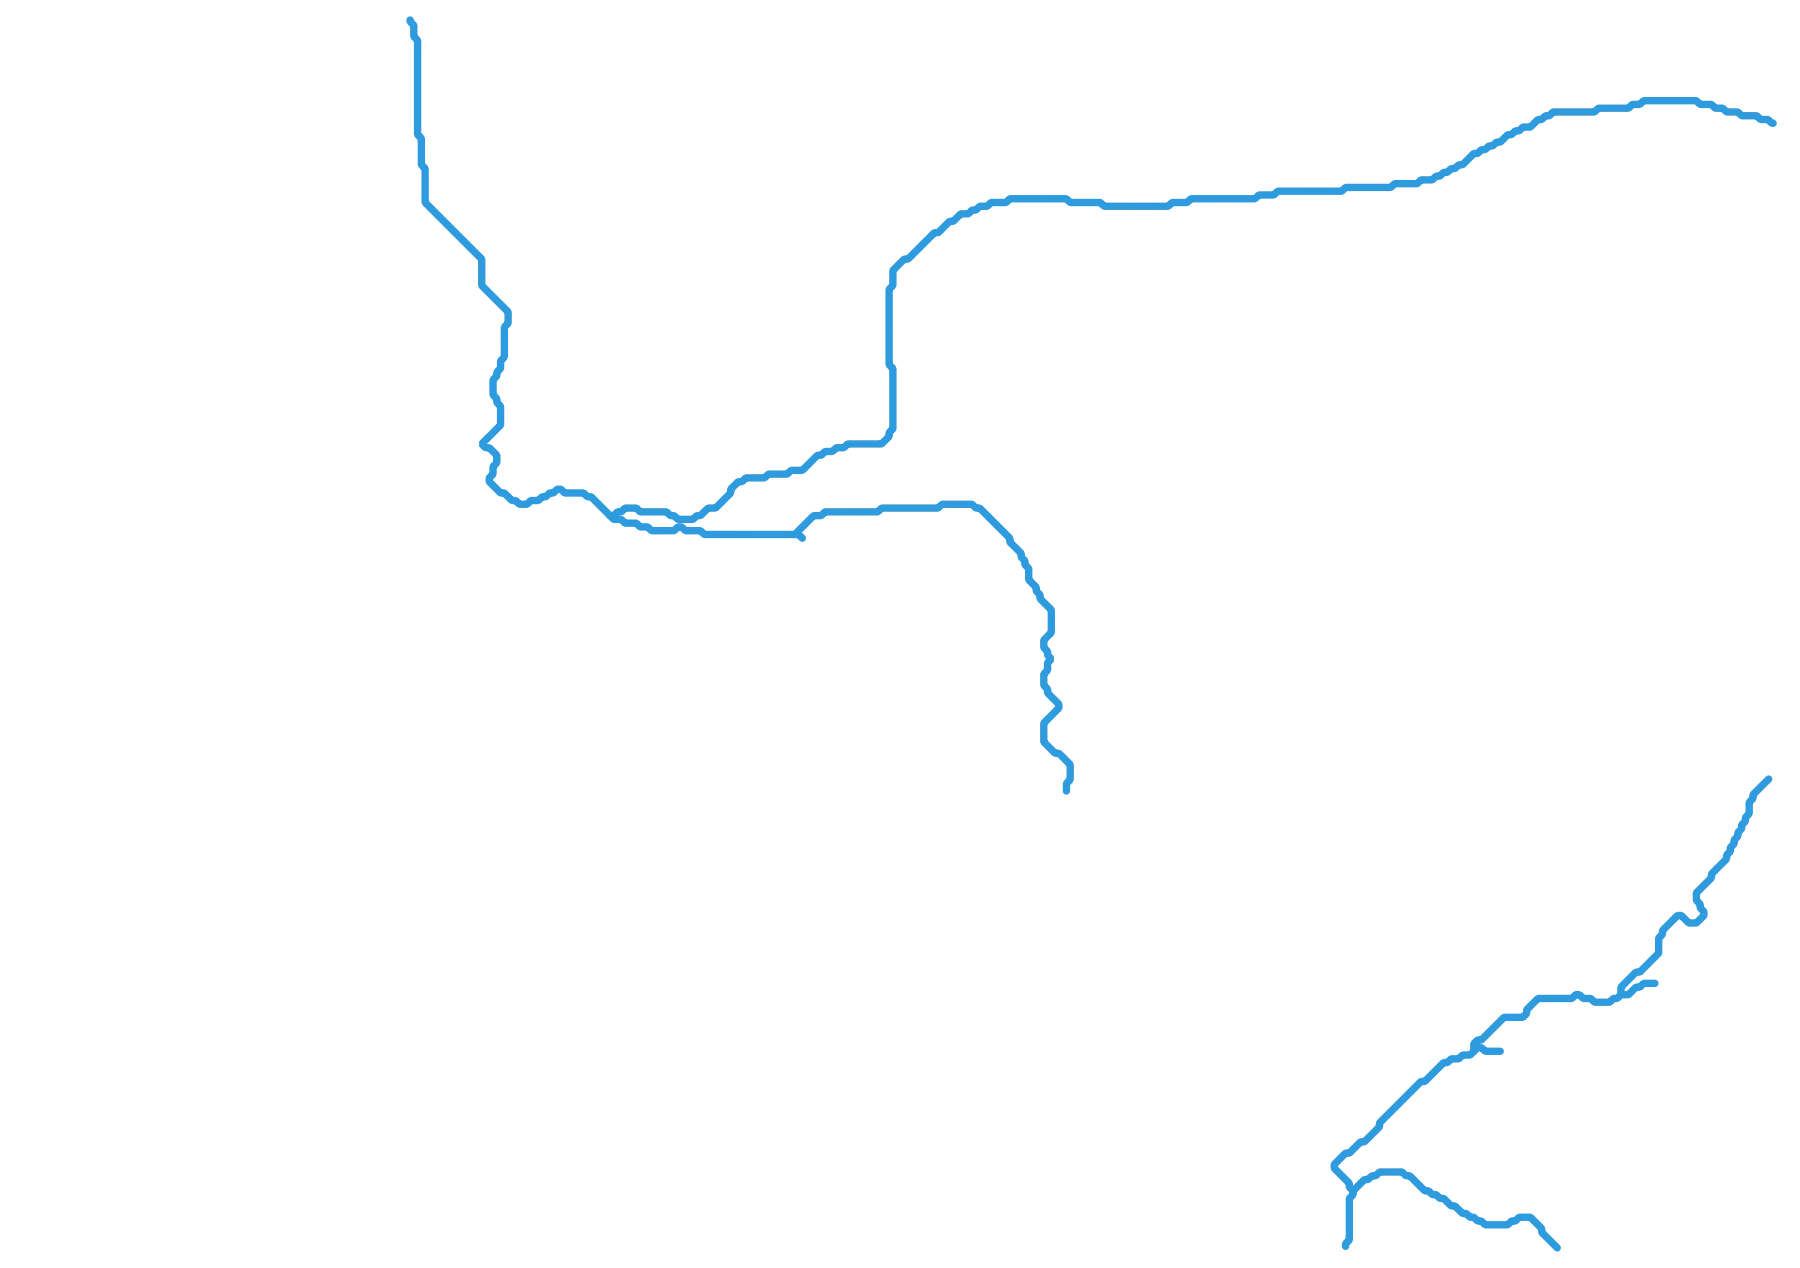
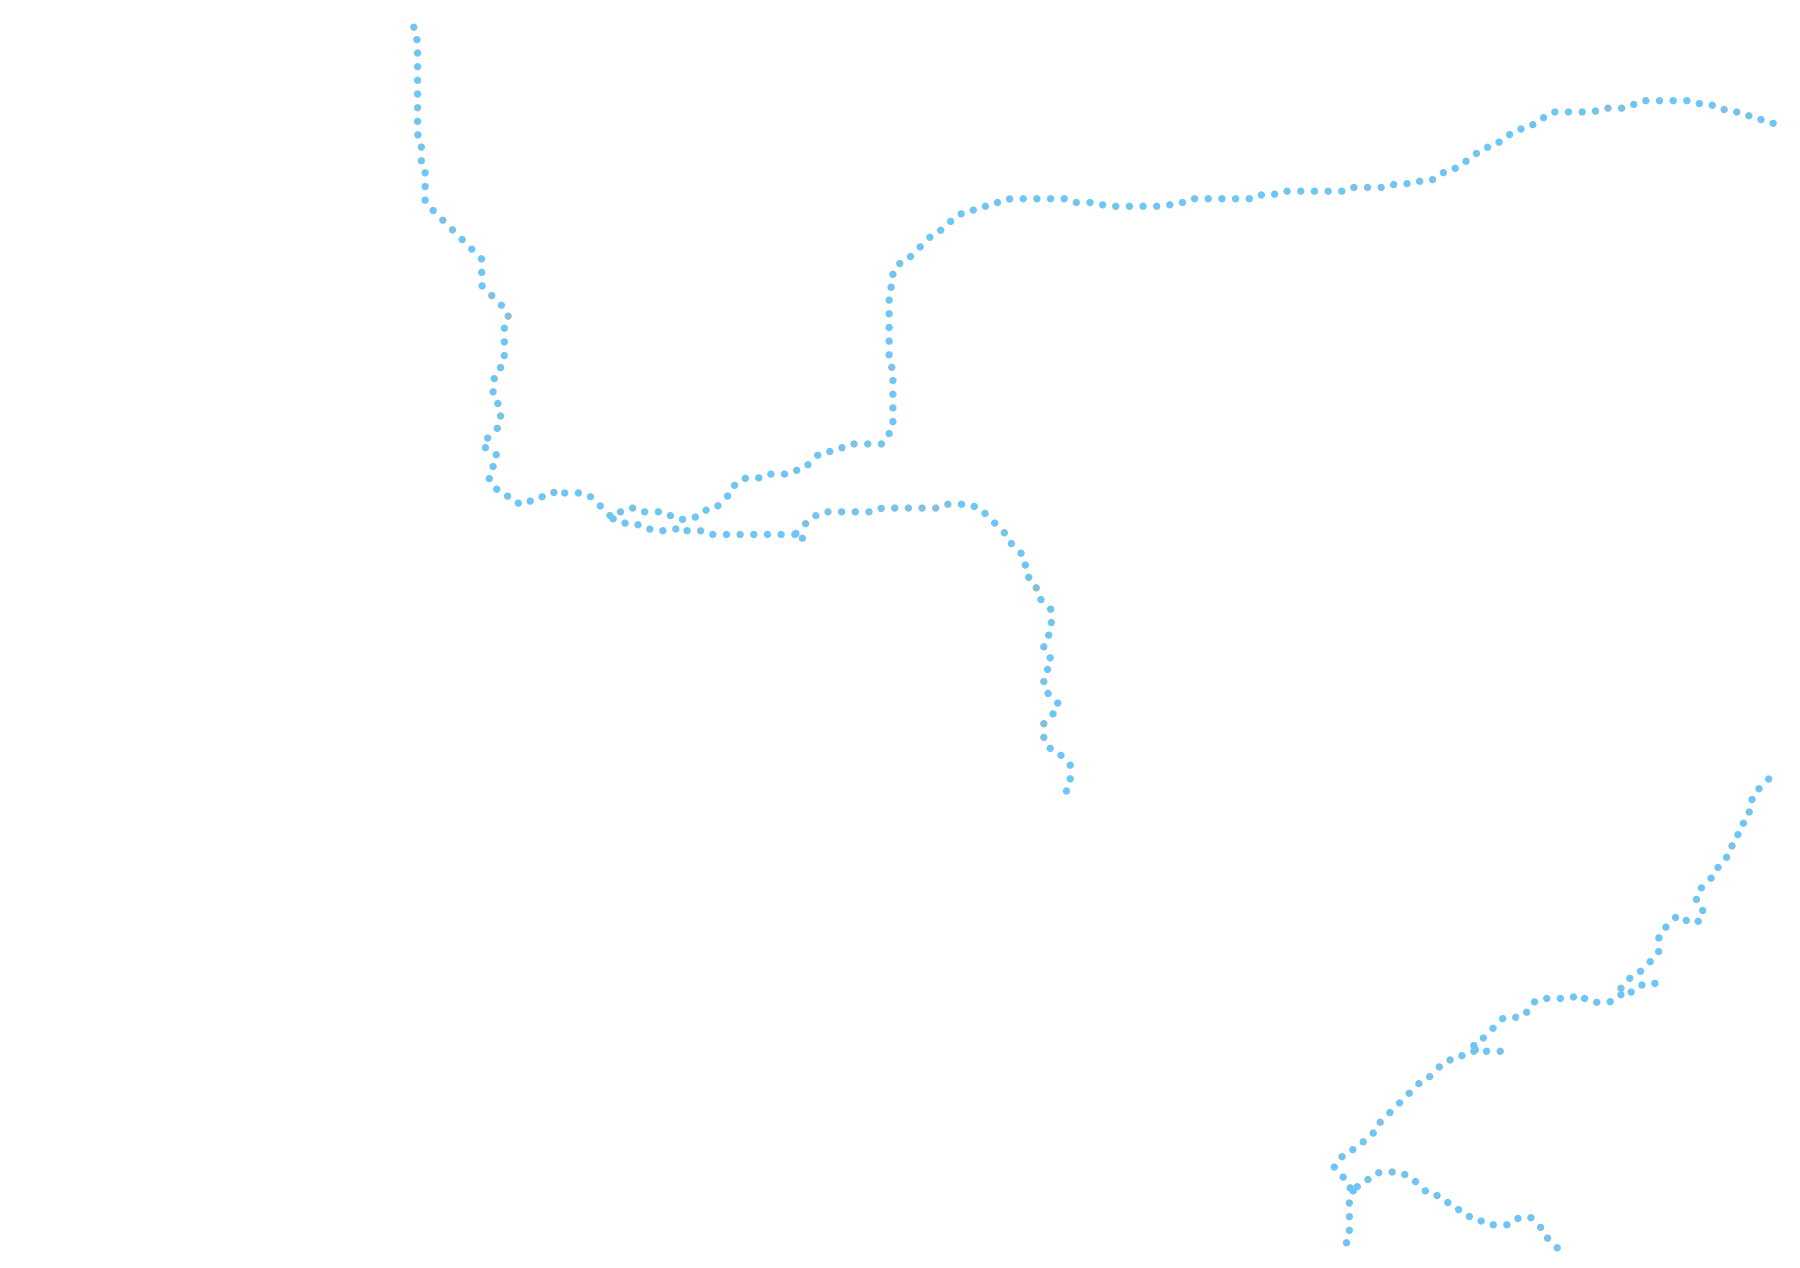
Hunting case study: USGS streams layer (solid dark blue), drainage paths as light-blue dots
Claude-Session: https://claude.ai/code/session_01CHzG2VdugtwDCagrQ4oSAg

diff --git a/case-studies/hunting-land/index.html b/case-studies/hunting-land/index.html
@@ -227,7 +227,7 @@ footer .tm{color:var(--label);font-weight:500}
 <span class="pill">Land Buyers</span>
 <span class="pill">Habitat &amp; Food Plot Planning</span>
 </div>
-<p class="lede"><span style="display:block;margin-bottom:12px">Mapping. Thermal. LiDAR.</span>On its own, each one gives today's landowner far more data than their parents or grandparents ever had. Together, a whole new level of knowledge emerges. It's what turns Elevated Data into Grounded Truth, and what differentiates aerial pictures from true site intelligence.<b>Below is what site intelligence can truly do: 19 layers of data, each with its own on/off toggle, so you can read the property more accurately than ever before, without ever leaving the house.</b></p>
+<p class="lede"><span style="display:block;margin-bottom:12px">Mapping. Thermal. LiDAR.</span>On its own, each one gives today's landowner far more data than their parents or grandparents ever had. Together, a whole new level of knowledge emerges. It's what turns Elevated Data into Grounded Truth, and what differentiates aerial pictures from true site intelligence.<b>Below is what site intelligence can truly do: 20 layers of data, each with its own on/off toggle, so you can read the property more accurately than ever before, without ever leaving the house.</b></p>
 
 <figure class="viewer" data-dark aria-label="Interactive layer map of the parcel">
 <div class="mapwrap" id="mapwrap">
@@ -243,6 +243,7 @@ footer .tm{color:var(--label);font-weight:500}
 <img data-k="south" src="img/south.webp" alt="" width="1800" height="1268" hidden loading="lazy" decoding="async">
 <img data-k="contours" src="img/contours.webp" alt="" width="1800" height="1268" decoding="async">
 <img data-k="drainage" src="img/drainage.webp" alt="" width="1800" height="1268" hidden loading="lazy" decoding="async">
+<img data-k="streams" src="img/streams.webp" alt="" width="1800" height="1268" hidden loading="lazy" decoding="async">
 <img data-k="ridges" src="img/ridges.webp" alt="" width="1800" height="1268" hidden loading="lazy" decoding="async">
 <img data-k="edges" src="img/edges.webp" alt="" width="1800" height="1268" hidden loading="lazy" decoding="async">
 <img data-k="hubs" src="img/hubs.webp" alt="" width="1800" height="1268" hidden loading="lazy" decoding="async">
@@ -261,7 +262,7 @@ footer .tm{color:var(--label);font-weight:500}
 <button class="pre" type="button" data-p="aerial,contours,boundary">Aerial + Contours</button>
 <button class="pre" type="button" data-p="elevation,contours,boundary">Elevation</button>
 <button class="pre" type="button" data-p="lidar,boundary">Raw LiDAR</button>
-<button class="pre" type="button" data-p="relief,drainage,ridges,hubs,saddles,south,boundary">Terrain Read</button>
+<button class="pre" type="button" data-p="relief,streams,drainage,ridges,hubs,saddles,south,boundary">Terrain Read</button>
 <button class="pre" type="button" data-p="aerial,cover,edges,corners,boundary">Cover &amp; Edges</button>
 <button class="pre" type="button" data-p="thermal,deer,springs,boundary">Thermal</button>
 <button class="pre" type="button" data-p="boundary">Clear</button>
@@ -270,14 +271,14 @@ footer .tm{color:var(--label);font-weight:500}
 <div class="grp"><h4>Imagery</h4><label class="row"><input type="checkbox" data-k="aerial" checked><i class="key" style="background:linear-gradient(90deg,#6b6f68,#a7a294,#5a5e57)"></i><span>Leaf-Off Aerial (4E)</span><input class="op" type="range" min="0" max="100" value="100" aria-label="Leaf-Off Aerial (4E) opacity" data-op="aerial"></label><label class="row"><input type="checkbox" data-k="thermal"><i class="key" style="background:linear-gradient(90deg,#000004,#932667,#fca50a)"></i><span>Thermal (4T)</span><input class="op" type="range" min="0" max="100" value="100" aria-label="Thermal (4T) opacity" data-op="thermal"></label></div>
 <div class="grp"><h4>LiDAR (2024)</h4><label class="row"><input type="checkbox" data-k="lidar"><i class="key" style="background:linear-gradient(90deg,#b88048,#aac85a,#78c44e,#268c40)"></i><span>Raw LiDAR Points (2024)</span><input class="op" type="range" min="0" max="100" value="100" aria-label="Raw LiDAR Points opacity" data-op="lidar"></label><label class="row"><input type="checkbox" data-k="relief"><i class="key" style="background:linear-gradient(90deg,#3a3a3a,#d9d9d9)"></i><span>Shaded Relief (Bare Earth)</span><input class="op" type="range" min="0" max="100" value="100" aria-label="Shaded Relief (Bare Earth) opacity" data-op="relief"></label><label class="row"><input type="checkbox" data-k="canopy"><i class="key" style="background:linear-gradient(90deg,#284628,#82be50,#e1f082)"></i><span>Canopy Height</span><input class="op" type="range" min="0" max="100" value="100" aria-label="Canopy Height opacity" data-op="canopy"></label></div>
 <div class="grp"><h4>Elevation</h4><label class="row"><input type="checkbox" data-k="elevation"><i class="key" style="background:linear-gradient(90deg,#31688e,#359778,#94be5f,#e8d678,#cd8c48,#964e32)"></i><span>Elevation (954&ndash;1,014 ft)</span><input class="op" type="range" min="0" max="100" value="100" aria-label="Elevation (954&ndash;1,014 ft) opacity" data-op="elevation"></label><label class="row"><input type="checkbox" data-k="contours" checked><i class="key l" style="background:#7a4a22"></i><span>Contours (2 ft, 10 ft Index)</span></label></div>
-<div class="grp"><h4>Terrain</h4><label class="row"><input type="checkbox" data-k="landforms"><i class="key" style="background:linear-gradient(90deg,#b35806,#fdd49e,#d9d9d9,#80cdc1,#2c7fb8)"></i><span>Landforms</span><input class="op" type="range" min="0" max="100" value="70" aria-label="Landforms opacity" data-op="landforms"></label><label class="row"><input type="checkbox" data-k="south"><i class="key" style="background:rgba(255,217,47,.75)"></i><span>South-Facing Slopes</span><input class="op" type="range" min="0" max="100" value="60" aria-label="South-Facing Slopes opacity" data-op="south"></label><label class="row"><input type="checkbox" data-k="drainage"><i class="key l" style="background:#2f9be0"></i><span>Drainage Lines</span></label><label class="row"><input type="checkbox" data-k="ridges"><i class="key l" style="background:#d9822b"></i><span>Ridgelines</span></label><label class="row"><input type="checkbox" data-k="hubs"><i class="key d" style="background:#9b5fd7"></i><span>Travel Hubs</span></label><label class="row"><input type="checkbox" data-k="saddles"><svg class="key" viewBox="0 0 24 24" aria-hidden="true" style="width:16px;height:16px;margin-left:2px;background:none"><path d="M12 2.5l2.8 6.1 6.7.7-5 4.5 1.4 6.6L12 17l-5.9 3.4 1.4-6.6-5-4.5 6.7-.7z" fill="#d7191c" stroke="#fff" stroke-width="1.2" stroke-linejoin="round"/></svg><span>Saddle</span></label></div>
+<div class="grp"><h4>Terrain</h4><label class="row"><input type="checkbox" data-k="landforms"><i class="key" style="background:linear-gradient(90deg,#b35806,#fdd49e,#d9d9d9,#80cdc1,#2c7fb8)"></i><span>Landforms</span><input class="op" type="range" min="0" max="100" value="70" aria-label="Landforms opacity" data-op="landforms"></label><label class="row"><input type="checkbox" data-k="south"><i class="key" style="background:rgba(255,217,47,.75)"></i><span>South-Facing Slopes</span><input class="op" type="range" min="0" max="100" value="60" aria-label="South-Facing Slopes opacity" data-op="south"></label><label class="row"><input type="checkbox" data-k="streams"><i class="key l" style="background:#1565c0"></i><span>Streams &amp; Creeks (USGS)</span></label><label class="row"><input type="checkbox" data-k="drainage"><i class="key l" style="background:repeating-linear-gradient(90deg,#6ec6f5 0 4px,transparent 4px 7px)"></i><span>Drainage Paths (Modeled)</span></label><label class="row"><input type="checkbox" data-k="ridges"><i class="key l" style="background:#d9822b"></i><span>Ridgelines</span></label><label class="row"><input type="checkbox" data-k="hubs"><i class="key d" style="background:#9b5fd7"></i><span>Travel Hubs</span></label><label class="row"><input type="checkbox" data-k="saddles"><svg class="key" viewBox="0 0 24 24" aria-hidden="true" style="width:16px;height:16px;margin-left:2px;background:none"><path d="M12 2.5l2.8 6.1 6.7.7-5 4.5 1.4 6.6L12 17l-5.9 3.4 1.4-6.6-5-4.5 6.7-.7z" fill="#d7191c" stroke="#fff" stroke-width="1.2" stroke-linejoin="round"/></svg><span>Saddle</span></label></div>
 <div class="grp"><h4>Cover</h4><label class="row"><input type="checkbox" data-k="cover"><i class="key" style="background:linear-gradient(90deg,#e9e2b0,#b5d36b,#a6763c,#1b6b3a)"></i><span>Cover Types</span><input class="op" type="range" min="0" max="100" value="55" aria-label="Cover Types opacity" data-op="cover"></label><label class="row"><input type="checkbox" data-k="edges"><i class="key l" style="background:#e6550d"></i><span>Field Edges</span></label><label class="row"><input type="checkbox" data-k="corners"><svg class="key" viewBox="0 0 24 24" aria-hidden="true" style="width:15px;height:15px;margin-left:2px;background:none"><path d="M12 3l9.5 17h-19z" fill="#e6550d" stroke="#fff" stroke-width="1.2" stroke-linejoin="round"/></svg><span>Inside Corner</span></label></div>
 <div class="grp"><h4>Thermal Detections<span class="sim">Simulated</span></h4><label class="row"><input type="checkbox" data-k="deer"><i class="key" style="background:#05070a;border:1px solid #fff;height:10px"></i><span>Deer Groups</span></label><label class="row"><input type="checkbox" data-k="springs"><i class="key" style="background:#05070a;border:1px solid #fff;height:10px"></i><span>Springs / Seeps</span></label></div>
 <div class="grp"><h4>Reference</h4><label class="row"><input type="checkbox" data-k="boundary" checked><i class="key l" style="background:repeating-linear-gradient(90deg,#e8711a 0 5px,transparent 5px 8px)"></i><span>Parcel Boundary</span></label></div>
 </div>
 </div>
 <div class="mkey" id="mkey" hidden></div>
-<figcaption class="vcap" id="vcap"><b>19 layers, one frame.</b> Check any combination; opacity sliders let imagery and elevation show through each other. Everything is aligned to the same ground. <a href="#guide" style="color:var(--or);white-space:nowrap">What does each feature mean? &darr;</a></figcaption>
+<figcaption class="vcap" id="vcap"><b>20 layers, one frame.</b> Check any combination; opacity sliders let imagery and elevation show through each other. Everything is aligned to the same ground. <a href="#guide" style="color:var(--or);white-space:nowrap">What does each feature mean? &darr;</a></figcaption>
 </figure>
 </section>
 
@@ -286,7 +287,7 @@ footer .tm{color:var(--label);font-weight:500}
 <div class="stat"><b>13.7 ac</b><span>Field and hardwood timber, Dane County, WI</span></div>
 <div class="stat"><b>60 ft</b><span>Of relief, 954 to 1,014 ft (NAVD88), mapped in 2-ft contours</span></div>
 <div class="stat"><b>2024</b><span>Public LiDAR (USGS 3DEP), checked against the drone</span></div>
-<div class="stat"><b>19</b><span>Stackable map layers, delivered on paper, on screen, and in-app</span></div>
+<div class="stat"><b>20</b><span>Stackable map layers, delivered on paper, on screen, and in-app</span></div>
 </section>
 
 <!-- WINTER -->
@@ -400,8 +401,8 @@ footer .tm{color:var(--label);font-weight:500}
 <p><b>Why It Matters</b>Depressions can hold seasonal water and stay wet after rain or snowmelt, which can attract wildlife and limit equipment access.</p>
 <button class="show" type="button" data-show="landforms,contours,boundary">Show on Map <span aria-hidden="true">&uarr;</span></button></article></div>
 <h3 class="tgh">Travel Features</h3>
-<div class="tgrid"><article class="tg"><header><i class="key l" style="background:#2f9be0"></i><h3>Drainage Lines</h3><span class="here">2,112 ft here</span></header>
-<p><b>What It Is</b>Paths surface water would follow, traced from the ground model. Not streams, and most are dry most of the year.</p>
+<div class="tgrid"><article class="tg"><header><i class="key l" style="background:repeating-linear-gradient(90deg,#6ec6f5 0 4px,transparent 4px 7px)"></i><h3>Drainage Paths</h3><span class="here">2,112 ft here</span></header>
+<p><b>What It Is</b>Paths surface water would follow, traced from the ground model and shown as dotted lines. They are not streams, and most are dry most of the year.</p>
 <p><b>Why It Matters</b>They mark the draws and low ground that deer follow between ridge and field, and the crossings where trails come together.</p>
 <button class="show" type="button" data-show="relief,drainage,boundary">Show on Map <span aria-hidden="true">&uarr;</span></button></article>
 <article class="tg"><header><i class="key l" style="background:#d9822b"></i><h3>Ridgelines</h3><span class="here">1,602 ft here</span></header>
@@ -447,7 +448,11 @@ footer .tm{color:var(--label);font-weight:500}
 <p><b>Why It Matters</b>Deer often enter a field at an inside corner, where they can step out with cover on two sides. Inside corners are classic stand sites on field edges.</p>
 <button class="show" type="button" data-show="aerial,edges,corners,boundary">Show on Map <span aria-hidden="true">&uarr;</span></button></article></div>
 <h3 class="tgh">Warmth, Water &amp; Elevation</h3>
-<div class="tgrid"><article class="tg"><header><i class="key" style="background:rgba(255,217,47,.75)"></i><h3>South-Facing Slopes</h3><span class="here">1.69 ac here</span></header>
+<div class="tgrid"><article class="tg"><header><i class="key l" style="background:#1565c0"></i><h3>Streams &amp; Creeks</h3><span class="here">1 intermittent here</span></header>
+<p><b>What It Is</b>Mapped streams and creeks from the USGS National Hydrography Dataset, shown as a solid line. The one crossing this parcel's southeast corner is classified as intermittent, meaning it flows only part of the year.</p>
+<p><b>Why It Matters</b>Creek bottoms hold water, browse, and thicker cover along the banks. Deer tend to cross at shallow spots and low banks, which concentrates travel at those crossings.</p>
+<button class="show" type="button" data-show="aerial,streams,drainage,boundary">Show on Map <span aria-hidden="true">&uarr;</span></button></article>
+<article class="tg"><header><i class="key" style="background:rgba(255,217,47,.75)"></i><h3>South-Facing Slopes</h3><span class="here">1.69 ac here</span></header>
 <p><b>What It Is</b>Slopes facing south or southwest, at 8 to 35&deg;.</p>
 <p><b>Why It Matters</b>They get the most winter sun, so they are warmer, melt off first, and green up first in spring. They are often preferred winter bedding.</p>
 <button class="show" type="button" data-show="relief,south,boundary">Show on Map <span aria-hidden="true">&uarr;</span></button></article>
